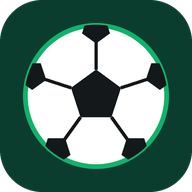
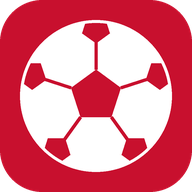
Ícono de pelota roja y blanca e interfaz en rojo y blanco
Claude-Session: https://claude.ai/code/session_01TsotiXz8AuLXLNkomrjQ3E

diff --git a/css/style.css b/css/style.css
@@ -1,17 +1,19 @@
 :root {
-  --bg: #eceff1;
+  --bg: #f7f2f2;
   --card: #fff;
   --ink: #1c2226;
   --muted: #6b767d;
   --line: #e2e6e9;
-  --head: #0b3d2e;
-  --head2: #0f5a43;
-  --accent: #10b26c;
+  --head: #c8102e;
+  --head2: #a50d26;
+  --accent: #1e9e62;
+  --brand: #c8102e;
+  --brand-soft: #fde8eb;
   --live: #e53935;
   --lib: #1e6fd9;
   --sud: #f29f05;
   --down: #d93636;
-  --zebra: #f7f9fa;
+  --zebra: #fcf7f7;
   font-family: system-ui, -apple-system, "Segoe UI", Roboto, Arial, sans-serif;
 }
 * { box-sizing: border-box; }
@@ -22,13 +24,13 @@ a { color: inherit; text-decoration: none; }
 .top { position: sticky; top: 0; z-index: 20; background: var(--head); color: #fff; box-shadow: 0 2px 6px rgba(0,0,0,.2); }
 .top-row { display: flex; align-items: center; justify-content: space-between; padding: 10px 14px 6px; max-width: 1100px; margin: 0 auto; }
 .brand { font-size: 18px; letter-spacing: .2px; }
-.brand span { color: #9fe5c4; font-weight: 600; }
+.brand span { color: #ffd2d9; font-weight: 600; }
 .bell { background: rgba(255,255,255,.12); color: #fff; border: 1px solid rgba(255,255,255,.25); border-radius: 18px; padding: 6px 12px; font-size: 13px; cursor: pointer; }
-.bell.on { background: var(--accent); border-color: var(--accent); }
+.bell.on { background: #fff; color: var(--brand); border-color: #fff; font-weight: 700; }
 .tabs { display: flex; gap: 2px; overflow-x: auto; padding: 0 10px; max-width: 1100px; margin: 0 auto; scrollbar-width: none; }
 .tabs::-webkit-scrollbar { display: none; }
-.tabs a { padding: 9px 12px; font-weight: 600; font-size: 13px; color: #cfe9de; border-bottom: 3px solid transparent; white-space: nowrap; }
-.tabs a.act { color: #fff; border-bottom-color: var(--accent); }
+.tabs a { padding: 9px 12px; font-weight: 600; font-size: 13px; color: #ffd9de; border-bottom: 3px solid transparent; white-space: nowrap; }
+.tabs a.act { color: #fff; border-bottom-color: #fff; }
 
 .live-strip { background: #111; display: flex; gap: 8px; overflow-x: auto; padding: 6px 10px; }
 .live-strip a { flex: none; background: #222; border-radius: 6px; padding: 4px 8px; font-size: 12px; display: flex; gap: 6px; align-items: center; }
@@ -47,11 +49,11 @@ a { color: inherit; text-decoration: none; }
 /* Selectores */
 .chips { display: flex; gap: 6px; overflow-x: auto; padding: 2px 0 10px; scrollbar-width: thin; }
 .chip { flex: none; border: 1px solid var(--line); background: #fff; border-radius: 16px; padding: 5px 11px; font-size: 13px; cursor: pointer; color: var(--ink); }
-.chip.act { background: var(--head); color: #fff; border-color: var(--head); }
+.chip.act { background: var(--brand); color: #fff; border-color: var(--brand); }
 .chip.live::after { content: " ●"; color: var(--live); }
 .seg { display: inline-flex; background: #fff; border-radius: 8px; border: 1px solid var(--line); margin-bottom: 10px; overflow: hidden; }
 .seg button { border: 0; background: none; padding: 7px 14px; font-weight: 600; cursor: pointer; color: var(--muted); }
-.seg button.act { background: var(--head); color: #fff; }
+.seg button.act { background: var(--brand); color: #fff; }
 
 /* Partidos */
 .day .nc { text-transform: none; }
@@ -122,7 +124,7 @@ table.t { width: 100%; border-collapse: collapse; font-variant-numeric: tabular-
 /* Clubes */
 .clubs { display: grid; grid-template-columns: repeat(auto-fill, minmax(120px, 1fr)); gap: 10px; padding: 12px; }
 .clubs a { background: #fff; border: 1px solid var(--line); border-radius: 10px; padding: 12px 6px; text-align: center; font-size: 13px; font-weight: 600; }
-.clubs a:hover { border-color: var(--accent); }
+.clubs a:hover { border-color: var(--brand); }
 .clubs img { width: 46px; height: 46px; object-fit: contain; display: block; margin: 0 auto 6px; }
 .clubs a .fav { color: #f5b301; }
 .chead { display: flex; gap: 14px; align-items: center; padding: 14px; }
@@ -159,10 +161,10 @@ select.sel { padding: 7px 10px; border-radius: 8px; border: 1px solid var(--line
 .probar { margin-top: 8px; border: 1px solid var(--line); background: #fff; border-radius: 16px; padding: 5px 12px; cursor: pointer; font-size: 12px; }
 
 /* Dato del día */
-.fact { display: flex; align-items: center; gap: 12px; padding: 12px 14px; border-left: 5px solid var(--accent); }
+.fact { display: flex; align-items: center; gap: 12px; padding: 12px 14px; border-left: 5px solid var(--brand); }
 .fact .fi { font-size: 28px; }
 .fact .ft { flex: 1; line-height: 1.35; }
-.fact .ft small { display: block; font-size: 11px; text-transform: uppercase; color: var(--accent); font-weight: 800; letter-spacing: .4px; }
+.fact .ft small { display: block; font-size: 11px; text-transform: uppercase; color: var(--brand); font-weight: 800; letter-spacing: .4px; }
 .fact .fl img { width: 34px; height: 34px; }
 .fact .fn { border: 1px solid var(--line); background: #fff; border-radius: 16px; padding: 5px 10px; cursor: pointer; font-size: 12px; white-space: nowrap; }
 @media (max-width: 560px) { .fact { flex-wrap: wrap; } .fact .fn { margin-left: auto; } }
@@ -182,18 +184,18 @@ select.sel { padding: 7px 10px; border-radius: 8px; border: 1px solid var(--line
 .up { color: var(--accent); } .dn { color: var(--down); }
 
 /* Pantalla grande */
-body.tv { background: #05140f; color: #fff; }
+body.tv { background: #140306; color: #fff; }
 body.tv .top, body.tv .foot { display: none; }
 body.tv .view { max-width: none; padding: 16px 24px; }
-.tvbar { display: flex; align-items: center; gap: 16px; font-size: 22px; padding-bottom: 8px; border-bottom: 1px solid #1d3b31; }
-.tvbar #tvclock { font-variant-numeric: tabular-nums; color: #9fe5c4; }
+.tvbar { display: flex; align-items: center; gap: 16px; font-size: 22px; padding-bottom: 8px; border-bottom: 1px solid #4a1520; }
+.tvbar #tvclock { font-variant-numeric: tabular-nums; color: #ffb3bf; }
 .tvbtns { margin-left: auto; display: flex; gap: 8px; }
-.tvbtns button, .tvbtns a { background: #12352a; color: #fff; border: 1px solid #2a5546; border-radius: 8px; padding: 6px 12px; font-size: 14px; cursor: pointer; }
-.tvh { font-size: 20px; margin: 18px 0 10px; color: #9fe5c4; }
+.tvbtns button, .tvbtns a { background: #3a0c14; color: #fff; border: 1px solid #6a1d2a; border-radius: 8px; padding: 6px 12px; font-size: 14px; cursor: pointer; }
+.tvh { font-size: 20px; margin: 18px 0 10px; color: #ffb3bf; }
 .tvnone { font-size: 20px; color: #9fb3ab; text-align: center; padding: 26px; }
 .tvgrid { display: grid; grid-template-columns: repeat(auto-fill, minmax(330px, 1fr)); gap: 14px; }
-.tvm { background: #0c261d; border: 1px solid #1d3b31; border-radius: 14px; padding: 14px; display: grid; grid-template-columns: 1fr auto 1fr; grid-template-areas: "s s s" "h sc a" "g g g"; align-items: center; gap: 8px; text-align: center; }
-.tvm.in { border-color: var(--live); box-shadow: 0 0 0 1px var(--live) inset; }
+.tvm { background: #24070d; border: 1px solid #4a1520; border-radius: 14px; padding: 14px; display: grid; grid-template-columns: 1fr auto 1fr; grid-template-areas: "s s s" "h sc a" "g g g"; align-items: center; gap: 8px; text-align: center; }
+.tvm.in { border-color: #fff; box-shadow: 0 0 0 1px #fff inset; }
 .tvs { grid-area: s; font-size: 15px; color: #9fb3ab; font-weight: 700; }
 .tvm.in .tvs { color: #ff6b6b; }
 .tvt.th { grid-area: h; } .tvt.ta { grid-area: a; }
@@ -202,7 +204,7 @@ body.tv .view { max-width: none; padding: 16px 24px; }
 .tvsc { grid-area: sc; font-size: 52px; font-weight: 900; font-variant-numeric: tabular-nums; }
 .tvsc i { font-style: normal; color: #5d7a70; margin: 0 6px; }
 .tvsc small { display: block; font-size: 14px; color: #9fb3ab; }
-.tvm.pre .tvsc { font-size: 30px; color: #9fe5c4; }
+.tvm.pre .tvsc { font-size: 30px; color: #ffb3bf; }
 .tvg { grid-area: g; font-size: 14px; color: #c9ddd5; min-height: 18px; text-transform: capitalize; }
 .tvgoal { position: fixed; inset: 0; z-index: 90; display: flex; flex-direction: column; align-items: center; justify-content: center; color: #fff; text-align: center; animation: pop .4s ease-out; cursor: pointer; }
 .tvgoal img { width: 160px; height: 160px; object-fit: contain; animation: bounce 1s infinite alternate; }
@@ -214,14 +216,21 @@ body.tv .view { max-width: none; padding: 16px 24px; }
 
 /* App instalable */
 .topbtns { display: flex; gap: 6px; }
-.bell.inst { background: #fff; color: var(--head); border-color: #fff; font-weight: 700; }
+.bell.inst { background: rgba(255,255,255,.14); color: #fff; border-color: rgba(255,255,255,.5); font-weight: 700; }
 .install-hint { margin: 10px auto 0; max-width: 420px; font-size: 12px; color: var(--ink); background: #fff; border: 1px solid var(--line); border-radius: 10px; padding: 8px 10px; }
 body.app .top { padding-top: env(safe-area-inset-top); }
 @media (max-width: 420px) { .brand span { display: none; } .bell { padding: 6px 9px; font-size: 12px; } }
 
 /* Selector de categoría */
 .leagues { display: flex; gap: 6px; padding: 0 14px 6px; max-width: 1100px; margin: 0 auto; }
-.leagues a { font-size: 12px; font-weight: 700; padding: 4px 10px; border-radius: 14px; color: #cfe9de; border: 1px solid rgba(255,255,255,.2); }
+.leagues a { font-size: 12px; font-weight: 700; padding: 4px 10px; border-radius: 14px; color: #ffd9de; border: 1px solid rgba(255,255,255,.2); }
 .leagues a.act { background: #fff; color: var(--head); border-color: #fff; }
 .t tr.fin td.pos { border-left-color: #f5b301; }
 .tvlg { color: #f5b301; }
+
+/* Identidad rojo y blanco */
+.card h2 { border-bottom: 3px solid #fff; }
+.fn:hover, .star:hover, .chip:hover { border-color: var(--brand); }
+.star.on { background: var(--brand-soft); border-color: var(--brand); color: var(--brand); }
+.probar { color: var(--brand); border-color: #f2c5cc; }
+.top { box-shadow: 0 2px 0 #fff, 0 3px 8px rgba(0,0,0,.18); }

diff --git a/index.html b/index.html
@@ -5,7 +5,7 @@
   <meta name="viewport" content="width=device-width, initial-scale=1, viewport-fit=cover">
   <title>Fútbol argentino 2026 · Liga Profesional y Primera Nacional en vivo</title>
   <meta name="description" content="Resultados en vivo, zonas, tabla anual, promedios, playoffs y noticias de cada club de la Liga Profesional.">
-  <meta name="theme-color" content="#0b3d2e">
+  <meta name="theme-color" content="#c8102e">
   <link rel="icon" type="image/png" href="icons/favicon-32.png">
   <link rel="manifest" href="manifest.webmanifest">
   <link rel="apple-touch-icon" href="icons/apple-touch-icon.png">
@@ -13,7 +13,7 @@
   <meta name="apple-mobile-web-app-capable" content="yes">
   <meta name="apple-mobile-web-app-title" content="Liga Pro">
   <meta name="apple-mobile-web-app-status-bar-style" content="black-translucent">
-  <link rel="stylesheet" href="css/style.css?v=9">
+  <link rel="stylesheet" href="css/style.css?v=10">
 </head>
 <body>
   <header class="top">
@@ -42,6 +42,6 @@
     <p id="install-hint" class="install-hint" hidden>📲 Para tenerla como app en Android: menú <b>⋮</b> de Chrome → <b>Instalar app</b> (o "Agregar a la pantalla principal").</p>
   </footer>
 
-  <script type="module" src="js/app.js?v=9"></script>
+  <script type="module" src="js/app.js?v=10"></script>
 </body>
 </html>

diff --git a/js/app.js b/js/app.js
@@ -1,8 +1,8 @@
-import { TEAMS, NAMES, logo, teamName } from "./teams.js?v=9";
-import { compactEvent } from "./compact.js?v=9";
-import { confetti, fiestaSound } from "./fiesta.js?v=9";
-import { buildFacts } from "./datos.js?v=9";
-import { computeTables } from "./tables.js?v=9";
+import { TEAMS, NAMES, logo, teamName } from "./teams.js?v=10";
+import { compactEvent } from "./compact.js?v=10";
+import { confetti, fiestaSound } from "./fiesta.js?v=10";
+import { buildFacts } from "./datos.js?v=10";
+import { computeTables } from "./tables.js?v=10";
 
 // ---------- Configuración ----------
 const REPO_RAW = "https://raw.githubusercontent.com/rda7777/liga-profesional/main/data/";
@@ -474,7 +474,7 @@ async function keepAwake(on) {
 setInterval(() => { const c = $("#tvclock"); if (c) c.textContent = fHour.format(new Date()); }, 15000);
 
 function tvGoal(e, side, who) {
-  const col = TEAMS[side[0]]?.col || ["#0b3d2e", "#fff"];
+  const col = TEAMS[side[0]]?.col || ["#c8102e", "#fff"];
   const o = document.createElement("div");
   o.className = "tvgoal";
   o.style.background = `radial-gradient(circle at 50% 40%, ${col[0]}, #000 85%)`;

diff --git a/js/fiesta.js b/js/fiesta.js
@@ -1,6 +1,6 @@
 // Festejo de gol: confeti con los colores del club y un sonido sintetizado (original, sin grabaciones).
 
-export function confetti(colors = ["#10b26c", "#ffffff"], ms = 4000) {
+export function confetti(colors = ["#c8102e", "#ffffff"], ms = 4000) {
   if (window.matchMedia?.("(prefers-reduced-motion: reduce)").matches) return;
   const cv = document.createElement("canvas");
   cv.className = "confetti";

diff --git a/sw.js b/sw.js
@@ -1,5 +1,5 @@
 // Service worker: permite instalar la app y abrirla sin conexión con los últimos datos guardados.
-const VERSION = "v9";
+const VERSION = "v10";
 const SHELL = `shell-${VERSION}`, DATA = "data", LOGOS = "logos";
 const FILES = [
   "./", "./index.html", "./manifest.webmanifest",

diff --git a/js/tables.js b/js/tables.js
@@ -1,5 +1,5 @@
 // Cálculo de tablas a partir de los partidos (lo usa el simulador "¿Y si…?").
-import { TEAMS } from "./teams.js?v=9";
+import { TEAMS } from "./teams.js?v=10";
 
 const blank = (id) => ({ id, pj: 0, g: 0, e: 0, p: 0, gf: 0, gc: 0, pts: 0 });
 const add = (row, gf, gc) => {

diff --git a/js/datos.js b/js/datos.js
@@ -1,5 +1,5 @@
 // "Dato del día": curiosidades calculadas con los partidos del año.
-import { teamName } from "./teams.js?v=9";
+import { teamName } from "./teams.js?v=10";
 
 const minute = (clk) => {
   const m = String(clk).match(/(\d+)'?(?:\s*\+\s*(\d+))?/);
